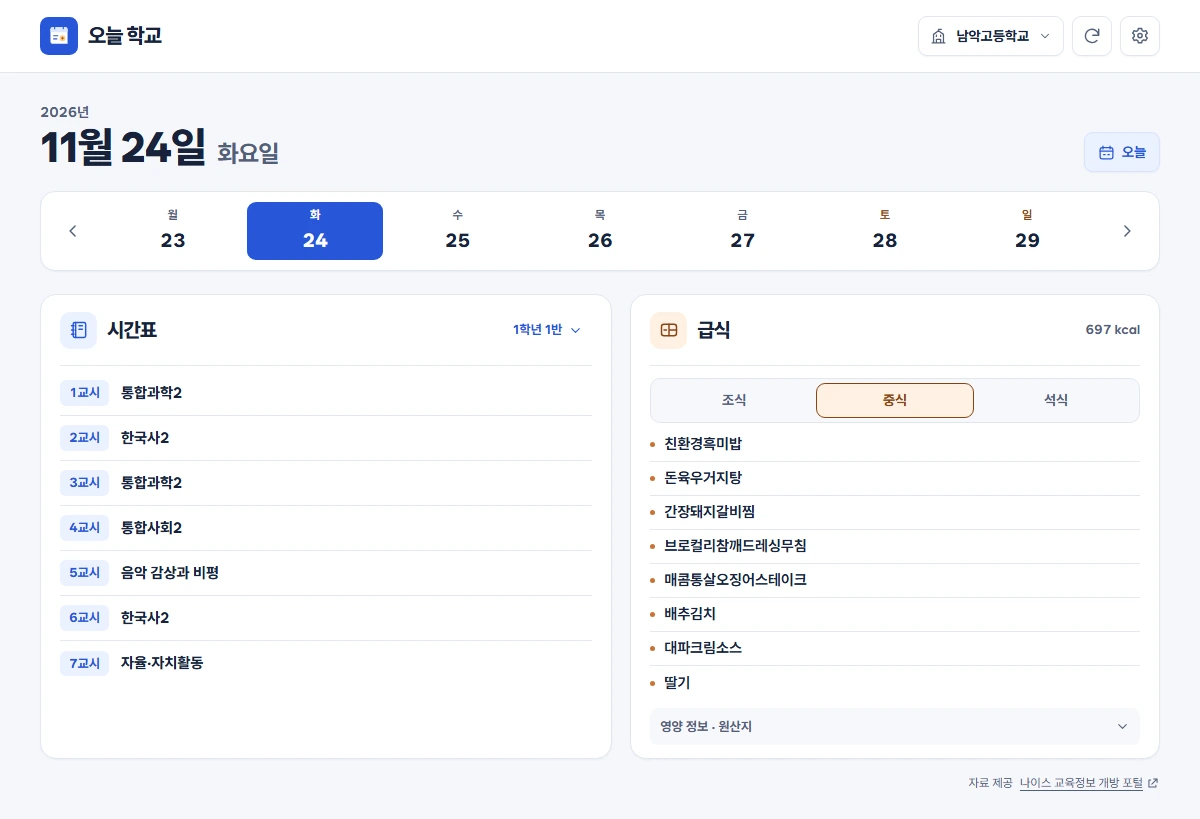
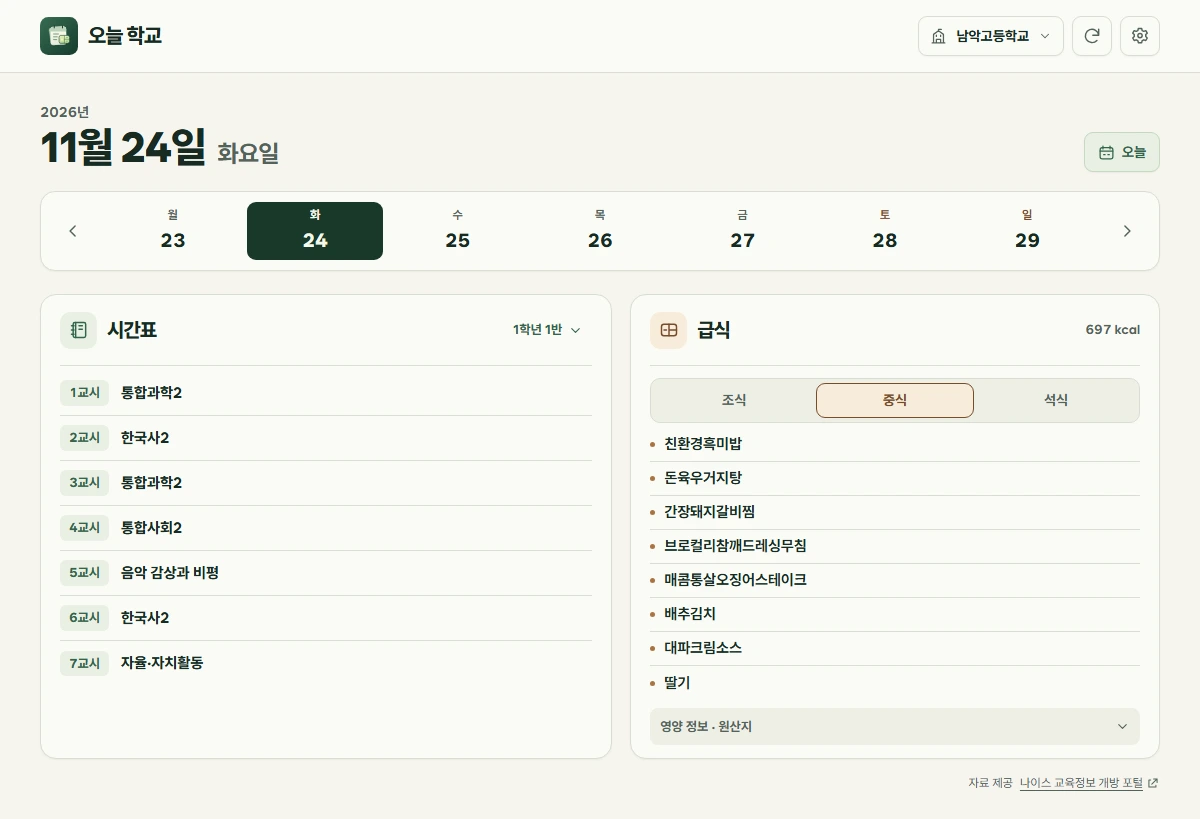
Refresh School Today branding for 2.1.1

diff --git a/public/today-school-assets/css/app.css b/public/today-school-assets/css/app.css
@@ -8,46 +8,46 @@
 
 :root, :host {
   color-scheme: light;
-  --canvas: #f5f7fb;
-  --surface: #fff;
-  --wash: #f7f8fc;
-  --line: #e2e7f0;
-  --ink: #17223a;
-  --muted: #526079;
-  --blue: #2857d8;
-  --blue-action: #2857d8;
-  --blue-wash: #ebf1ff;
-  --blue-line: #d7e3ff;
-  --on-action: #fff;
-  --amber: #884518;
-  --amber-wash: #fff1e3;
-  --meal-dot: #c87336;
-  --danger: #a13a25;
-  --danger-wash: #fff1e9;
-  --focus: #2857d8;
-  --shadow: 0 1px 2px rgb(27 46 88 / 5%);
+  --canvas: #f6f5ef;
+  --surface: #fbfbf6;
+  --wash: #eeefe6;
+  --line: #d9ded2;
+  --ink: #172b23;
+  --muted: #53635a;
+  --accent: #32654b;
+  --accent-action: #19382a;
+  --accent-wash: #e9f0e3;
+  --accent-line: #c5d9c1;
+  --on-action: #f3f8ed;
+  --amber: #784c2c;
+  --amber-wash: #f7ecda;
+  --meal-dot: #a97443;
+  --danger: #923b2d;
+  --danger-wash: #f9ede2;
+  --focus: #26714e;
+  --shadow: 0 1px 2px rgb(23 43 35 / 5%);
   --font: "School Wanted Sans", "Apple SD Gothic Neo", "Malgun Gothic", sans-serif;
 }
 
 :root[data-theme="dark"], :host([data-theme="dark"]) {
   color-scheme: dark;
-  --canvas: #111722;
-  --surface: #192232;
-  --wash: #202c40;
-  --line: #344256;
-  --ink: #ecf1fc;
-  --muted: #aab8ce;
-  --blue: #b7cbff;
-  --blue-action: #b7cbff;
-  --blue-wash: #213558;
-  --blue-line: #39527d;
-  --on-action: #162744;
-  --amber: #ffd3aa;
-  --amber-wash: #3d2b20;
-  --meal-dot: #eaa676;
-  --danger: #ffb4a0;
-  --danger-wash: #412b29;
-  --focus: #b7cbff;
+  --canvas: #111a15;
+  --surface: #19251e;
+  --wash: #202e26;
+  --line: #33463a;
+  --ink: #edf3e9;
+  --muted: #b4c3b7;
+  --accent: #a9dcaa;
+  --accent-action: #c9edb8;
+  --accent-wash: #263d2e;
+  --accent-line: #415e49;
+  --on-action: #172b23;
+  --amber: #f1cda4;
+  --amber-wash: #392c20;
+  --meal-dot: #d4a46f;
+  --danger: #ffbaa2;
+  --danger-wash: #3b2a25;
+  --focus: #b6e9ac;
 }
 
 * { box-sizing: border-box; }
@@ -64,7 +64,7 @@ body, .app {
 h1, h2, h3, h4, p, dl, dd { margin: 0; }
 ul, ol { margin: 0; padding: 0; list-style: none; }
 img { display: block; max-width: 100%; }
-a { color: var(--blue); }
+a { color: var(--accent); }
 button, input, select { font: inherit; color: inherit; }
 button {
   border: 1px solid transparent;
@@ -81,7 +81,7 @@ button:disabled { cursor: default; }
   overflow: clip;
   background: var(--canvas);
   border: 1px solid var(--line);
-  border-radius: 18px;
+  border-radius: 20px;
 }
 .topbar {
   background: var(--surface);
@@ -128,9 +128,11 @@ button:disabled { cursor: default; }
 .dashboard { padding-block: 29px 28px; }
 .date-section { margin-bottom: 23px; }
 .date-heading { display: flex; align-items: end; justify-content: space-between; gap: 8px 18px; margin-bottom: 19px; }
+.date-actions { display: flex; align-items: center; gap: 8px; min-width: 0; }
+:host .date-heading { flex-wrap: wrap; }
 .date-year { color: var(--muted); font-size: 14px; font-weight: 680; font-variant-numeric: tabular-nums; }
-.date-heading h1 { font-size: clamp(27px, 4.3vw, 42px); font-weight: 820; line-height: 1.17; letter-spacing: -.047em; }
-.date-heading h1 span { margin-inline-start: .18em; color: var(--muted); font-size: .58em; font-weight: 690; letter-spacing: -.025em; white-space: nowrap; }
+.date-heading .date-title { font-size: clamp(27px, 4.3vw, 42px); font-weight: 820; line-height: 1.17; letter-spacing: -.047em; }
+.date-heading .date-title span { margin-inline-start: .18em; color: var(--muted); font-size: .58em; font-weight: 690; letter-spacing: -.025em; white-space: nowrap; }
 .secondary, .primary, .danger-button {
   display: inline-flex;
   align-items: center;
@@ -142,10 +144,10 @@ button:disabled { cursor: default; }
   font-weight: 720;
   white-space: nowrap;
 }
-.today-button { color: var(--blue); }
+.today-button { color: var(--accent); }
 .today-button .ico { width: 17px; height: 17px; }
-.today-button[aria-current="date"] { background: var(--blue-wash); border-color: var(--blue-line); }
-.primary { background: var(--blue-action); color: var(--on-action); }
+.today-button[aria-current="date"] { background: var(--accent-wash); border-color: var(--accent-line); }
+.primary { background: var(--accent-action); color: var(--on-action); }
 .primary:hover, .danger-button:hover { filter: brightness(.91); }
 .primary .ico { width: 16px; height: 16px; }
 .week-strip {
@@ -175,8 +177,8 @@ button:disabled { cursor: default; }
 .day-button time { font-size: 19px; font-weight: 770; color: var(--ink); font-variant-numeric: tabular-nums; }
 .day-button:hover { background: var(--wash); }
 .day-button.weekend:not([aria-pressed="true"]) span { color: var(--amber); }
-.day-button[aria-current="date"]:not([aria-pressed="true"]) { border-color: var(--blue-line); }
-.day-button[aria-pressed="true"] { background: var(--blue-action); color: var(--on-action); }
+.day-button[aria-current="date"]:not([aria-pressed="true"]) { border-color: var(--accent-line); }
+.day-button[aria-pressed="true"] { background: var(--accent-action); color: var(--on-action); }
 .day-button[aria-pressed="true"] time { color: inherit; }
 
 .register-strip {
@@ -186,10 +188,10 @@ button:disabled { cursor: default; }
   margin-bottom: 20px;
   padding: 12px 15px;
   border-radius: 12px;
-  border: 1px solid var(--blue-line);
-  background: var(--blue-wash);
+  border: 1px solid var(--accent-line);
+  background: var(--accent-wash);
 }
-.register-icon { display: grid; place-items: center; flex: none; width: 32px; height: 32px; color: var(--blue); }
+.register-icon { display: grid; place-items: center; flex: none; width: 32px; height: 32px; color: var(--accent); }
 .register-strip p { flex: 1; font-size: 14px; font-weight: 660; }
 .panels { display: grid; grid-template-columns: minmax(0, 1.08fr) minmax(0, 1fr); gap: 18px; }
 .panel-shortcuts { display: none; }
@@ -222,8 +224,8 @@ button:disabled { cursor: default; }
   width: 37px;
   height: 37px;
   border-radius: 10px;
-  color: var(--blue);
-  background: var(--blue-wash);
+  color: var(--accent);
+  background: var(--accent-wash);
 }
 .panel-meals .panel-icon { color: var(--amber); background: var(--amber-wash); }
 .class-button {
@@ -232,7 +234,7 @@ button:disabled { cursor: default; }
   gap: 6px;
   min-height: 36px;
   padding: 5px 8px;
-  color: var(--blue);
+  color: var(--accent);
   font-weight: 700;
   font-size: 13px;
 }
@@ -251,8 +253,8 @@ button:disabled { cursor: default; }
   min-width: 49px;
   padding: 3px 5px;
   border-radius: 6px;
-  background: var(--blue-wash);
-  color: var(--blue);
+  background: var(--accent-wash);
+  color: var(--accent);
   font-size: 13px;
   font-weight: 730;
   text-align: center;
@@ -328,7 +330,7 @@ button:disabled { cursor: default; }
 }
 .meal-body .empty-state { min-height: 170px; }
 .loading-state { display: flex; align-items: center; gap: 9px; padding: 18px 0; color: var(--muted); }
-.loading-indicator { width: 14px; height: 14px; border: 2px solid var(--line); border-top-color: var(--blue); border-radius: 50%; animation: spin .8s linear infinite; }
+.loading-indicator { width: 14px; height: 14px; border: 2px solid var(--line); border-top-color: var(--accent); border-radius: 50%; animation: spin .8s linear infinite; }
 @keyframes spin { to { transform: rotate(360deg); } }
 .panel-notice {
   display: flex;
@@ -361,7 +363,7 @@ button:disabled { cursor: default; }
   color: var(--ink);
   overscroll-behavior: contain;
 }
-.dialog::backdrop { background: rgb(15 26 48 / 48%); }
+.dialog::backdrop { background: rgb(17 31 24 / 48%); }
 .dialog-header {
   position: sticky;
   z-index: 1;
@@ -402,7 +404,7 @@ button:disabled { cursor: default; }
   padding: 8px; border-color: var(--line); text-align: left;
 }
 .school-result:hover { background: var(--wash); }
-.school-kind { display: grid; place-items: center; flex: none; width: 31px; height: 31px; border-radius: 7px; background: var(--blue-wash); color: var(--blue); font-size: 13px; font-weight: 740; }
+.school-kind { display: grid; place-items: center; flex: none; width: 31px; height: 31px; border-radius: 7px; background: var(--accent-wash); color: var(--accent); font-size: 13px; font-weight: 740; }
 .school-result-copy { flex: 1; }
 .school-result-copy strong, .school-result-copy small { display: block; }
 .school-result-copy small { color: var(--muted); font-size: 12px; }
@@ -414,7 +416,7 @@ button:disabled { cursor: default; }
 .chip-grid { display: flex; flex-wrap: wrap; gap: 6px; }
 .chip { min-height: 36px; padding: 5px 10px; border-color: var(--line); font-size: 13px; font-weight: 660; }
 .chip:hover { background: var(--wash); }
-.chip[aria-pressed="true"] { background: var(--blue-wash); border-color: var(--blue-line); color: var(--blue); }
+.chip[aria-pressed="true"] { background: var(--accent-wash); border-color: var(--accent-line); color: var(--accent); }
 .settings-body { display: grid; gap: 10px; background: var(--canvas); }
 .settings-section {
   display: grid;
@@ -465,18 +467,18 @@ label.setting-row { cursor: pointer; }
   font-weight: 660;
   text-align: center;
 }
-.theme-segments input:checked + span { background: var(--surface); color: var(--blue); border-color: var(--blue-line); }
+.theme-segments input:checked + span { background: var(--surface); color: var(--accent); border-color: var(--accent-line); }
 .theme-segments input:focus-visible + span, .switch:focus-visible + .switch-track { outline: 2px solid var(--focus); outline-offset: 2px; }
 .switch-control { flex: none; width: 36px; }
 .switch-track { display: flex; align-items: center; height: 21px; padding: 2px; border: 1px solid var(--muted); border-radius: 12px; background: var(--wash); }
 .switch-track::after { width: 13px; height: 13px; border-radius: 50%; background: var(--muted); content: ""; }
-.switch:checked + .switch-track { justify-content: end; border-color: var(--blue-action); background: var(--blue-action); }
+.switch:checked + .switch-track { justify-content: end; border-color: var(--accent-action); background: var(--accent-action); }
 .switch:checked + .switch-track::after { background: var(--on-action); }
 .switch:disabled + .switch-track { opacity: .65; }
 .settings-heading { display: flex; align-items: center; justify-content: space-between; gap: 8px; }
 .settings-heading h4 { font-size: 14px; }
 .settings-section .chip-grid { margin-block: 5px; }
-.text-button { min-height: 36px; padding: 4px 6px; color: var(--blue); font-size: 13px; font-weight: 690; }
+.text-button { min-height: 36px; padding: 4px 6px; color: var(--accent); font-size: 13px; font-weight: 690; }
 .text-button:hover { text-decoration: underline; text-underline-offset: 3px; }
 .remove-school { justify-self: start; color: var(--danger); }
 .dialog-actions { display: flex; justify-content: end; gap: 6px; margin-top: 13px; }
@@ -491,7 +493,7 @@ label.setting-row { cursor: pointer; }
   border-bottom: 1px solid var(--line);
 }
 .window-bar .icon-button { -webkit-app-region: no-drag; min-height: 28px; width: 34px; border: 0; border-radius: 5px; box-shadow: none; }
-.window-bar .icon-button[aria-pressed="true"] { color: var(--blue); background: var(--blue-wash); }
+.window-bar .icon-button[aria-pressed="true"] { color: var(--accent); background: var(--accent-wash); }
 .window-bar .icon-button:last-child:hover { color: var(--danger); background: var(--danger-wash); }
 .window-bar .ico { width: 16px; height: 16px; }
 .file-help { margin: 60px auto; width: fit-content; text-align: center; }

diff --git a/public/today-school-assets/js/app.js b/public/today-school-assets/js/app.js
@@ -22,7 +22,12 @@ const TEXT_SIZE_KEY = "today-school.largeText";
 const MEAL_KEY = "today-school.defaultMeal";
 const ALLERGY_KEY = "today-meal.allergies";
 const NUMBERS_KEY = "today-meal.numbers";
-const asset = (path) => new URL("../" + path, import.meta.url).href;
+const releaseQuery = new URL(import.meta.url).search;
+const asset = (path) => {
+  const url = new URL("../" + path, import.meta.url);
+  url.search = releaseQuery;
+  return url.href;
+};
 const panels = {
   timetable: { status: "idle", data: null },
   meals: { status: "idle", data: null },
@@ -49,7 +54,7 @@ function applyTheme() {
   const deviceTheme = systemTheme.matches ? "dark" : "light";
   const appearance = theme === "system" ? (host && html.dataset.theme) || deviceTheme : theme;
   (host || html).dataset.theme = appearance;
-  const color = appearance === "dark" ? "#111722" : "#f5f7fb";
+  const color = appearance === "dark" ? "#111a15" : "#f6f5ef";
   document.querySelector('meta[name="theme-color"]:not([media])')?.setAttribute("content", color);
   if (widget) widget.setTheme(theme).catch(() => {});
   const statusBar = window.Capacitor?.Plugins?.StatusBar;
@@ -68,11 +73,11 @@ function build() {
   ui.school = button("학교 등록", chooseSchool, [icon("school"), ui.schoolName, icon("down")], { class: "school-button" });
   ui.refresh = iconButton("새로고침", "refresh", loadDay);
   ui.settings = iconButton("설정", "gear", settings);
-  const topbar = h("header", { class: "topbar" }, h("div", { class: "topbar-inner" }, [
-    brand, h("div", { class: "toolbar" }, [ui.school, ui.refresh, ui.settings]),
-  ]));
+  const toolbar = h("div", { class: "toolbar" }, [ui.school, ui.refresh, ui.settings]);
+  const topbar = host ? null : h("header", { class: "topbar" },
+    h("div", { class: "topbar-inner" }, [brand, toolbar]));
 
-  ui.dateTitle = h("h1", { id: "date-title" });
+  ui.dateTitle = h(host ? "h2" : "h1", { id: "date-title", class: "date-title" });
   ui.dateYear = h("p", { class: "date-year" });
   ui.today = button("오늘", () => selectDate(today), [icon("calendar"), "오늘"], { class: "secondary today-button" });
   ui.week = h("div", { class: "week", role: "group", "aria-label": "요일 선택" });
@@ -87,7 +92,7 @@ function build() {
   const dates = h("section", { class: "date-section", "aria-labelledby": ui.dateTitle.id }, [
     h("div", { class: "date-heading" }, [
       h("div", {}, [ui.dateYear, ui.dateTitle]),
-      ui.today,
+      h("div", { class: "date-actions" }, [ui.today, host ? toolbar : null]),
     ]),
     h("div", { class: "week-strip" }, [previous, ui.week, next]),
   ]);
@@ -129,7 +134,7 @@ function build() {
     h("footer", { class: "data-source" }, [h("span", { text: "자료 제공" }), source]),
   ]);
   addSwipe(panelsGrid);
-  app.replaceChildren(topbar, dashboard);
+  app.replaceChildren(...(topbar ? [topbar, dashboard] : [dashboard]));
   if (widget) app.prepend(widgetBar());
 }
 
@@ -237,7 +242,7 @@ function paintControls() {
 
 function empty(name, title) {
   return h("div", { class: "empty-state" }, [
-    h("img", { src: asset("assets/" + name + ".svg"), alt: "", width: "92", height: "69" }),
+    h("img", { src: asset("assets/" + name + ".svg"), alt: "", width: "112", height: "84" }),
     h("p", { text: title }),
   ]);
 }

diff --git a/src/content/software/today-meal/index.md b/src/content/software/today-meal/index.md
@@ -17,6 +17,34 @@ requirements: [Windows 10 이상 64비트, Android 6.0 이상]
 requirements_en: [Windows 10 or later (64-bit), Android 6.0 or later]
 order: 2
 releases:
+  - version: 2.1.1
+    date: 2026-11-24
+    channel: stable
+    tag: today-school-v2.1.1
+    notes:
+      - 시간표와 식판을 모티브로 새 아이콘과 삽화 제작
+      - hyot.dev 색상과 서체에 맞춰 웹페이지 제목과 조작 버튼 배치 정리
+      - 현재 설치 경로와 일치하는 Windows 자동 시작 상태 표시
+    notes_en:
+      - New timetable and lunch-tray icon and illustrations
+      - Web page styling and controls follow the Hyot.dev design
+      - Windows startup status reflects the current installation path
+    downloads:
+      - type: installer
+        label: Windows 위젯
+        label_en: Windows widget
+        filename: 오늘학교-위젯-2.1.1.exe
+        url: https://github.com/furss123/hyot-software-center/releases/download/today-school-v2.1.1/today-school-widget-setup-2.1.1-x64.exe
+        size: 88002673
+        sha256: b579628196bba18706dd285670d0ef6068e7dfacb08802e7d82503172701ef49
+        arch: x64
+      - type: apk
+        label: Android 앱
+        label_en: Android app
+        filename: 오늘학교-2.1.1.apk
+        url: https://github.com/furss123/hyot-software-center/releases/download/today-school-v2.1.1/today-school-2.1.1.apk
+        size: 4820843
+        sha256: fcfcb7c6795107fbb7dbd79c763c734579565eb0f3a825ee90438f1a7af15221
   - version: 2.1.0
     date: 2026-11-24
     channel: stable
